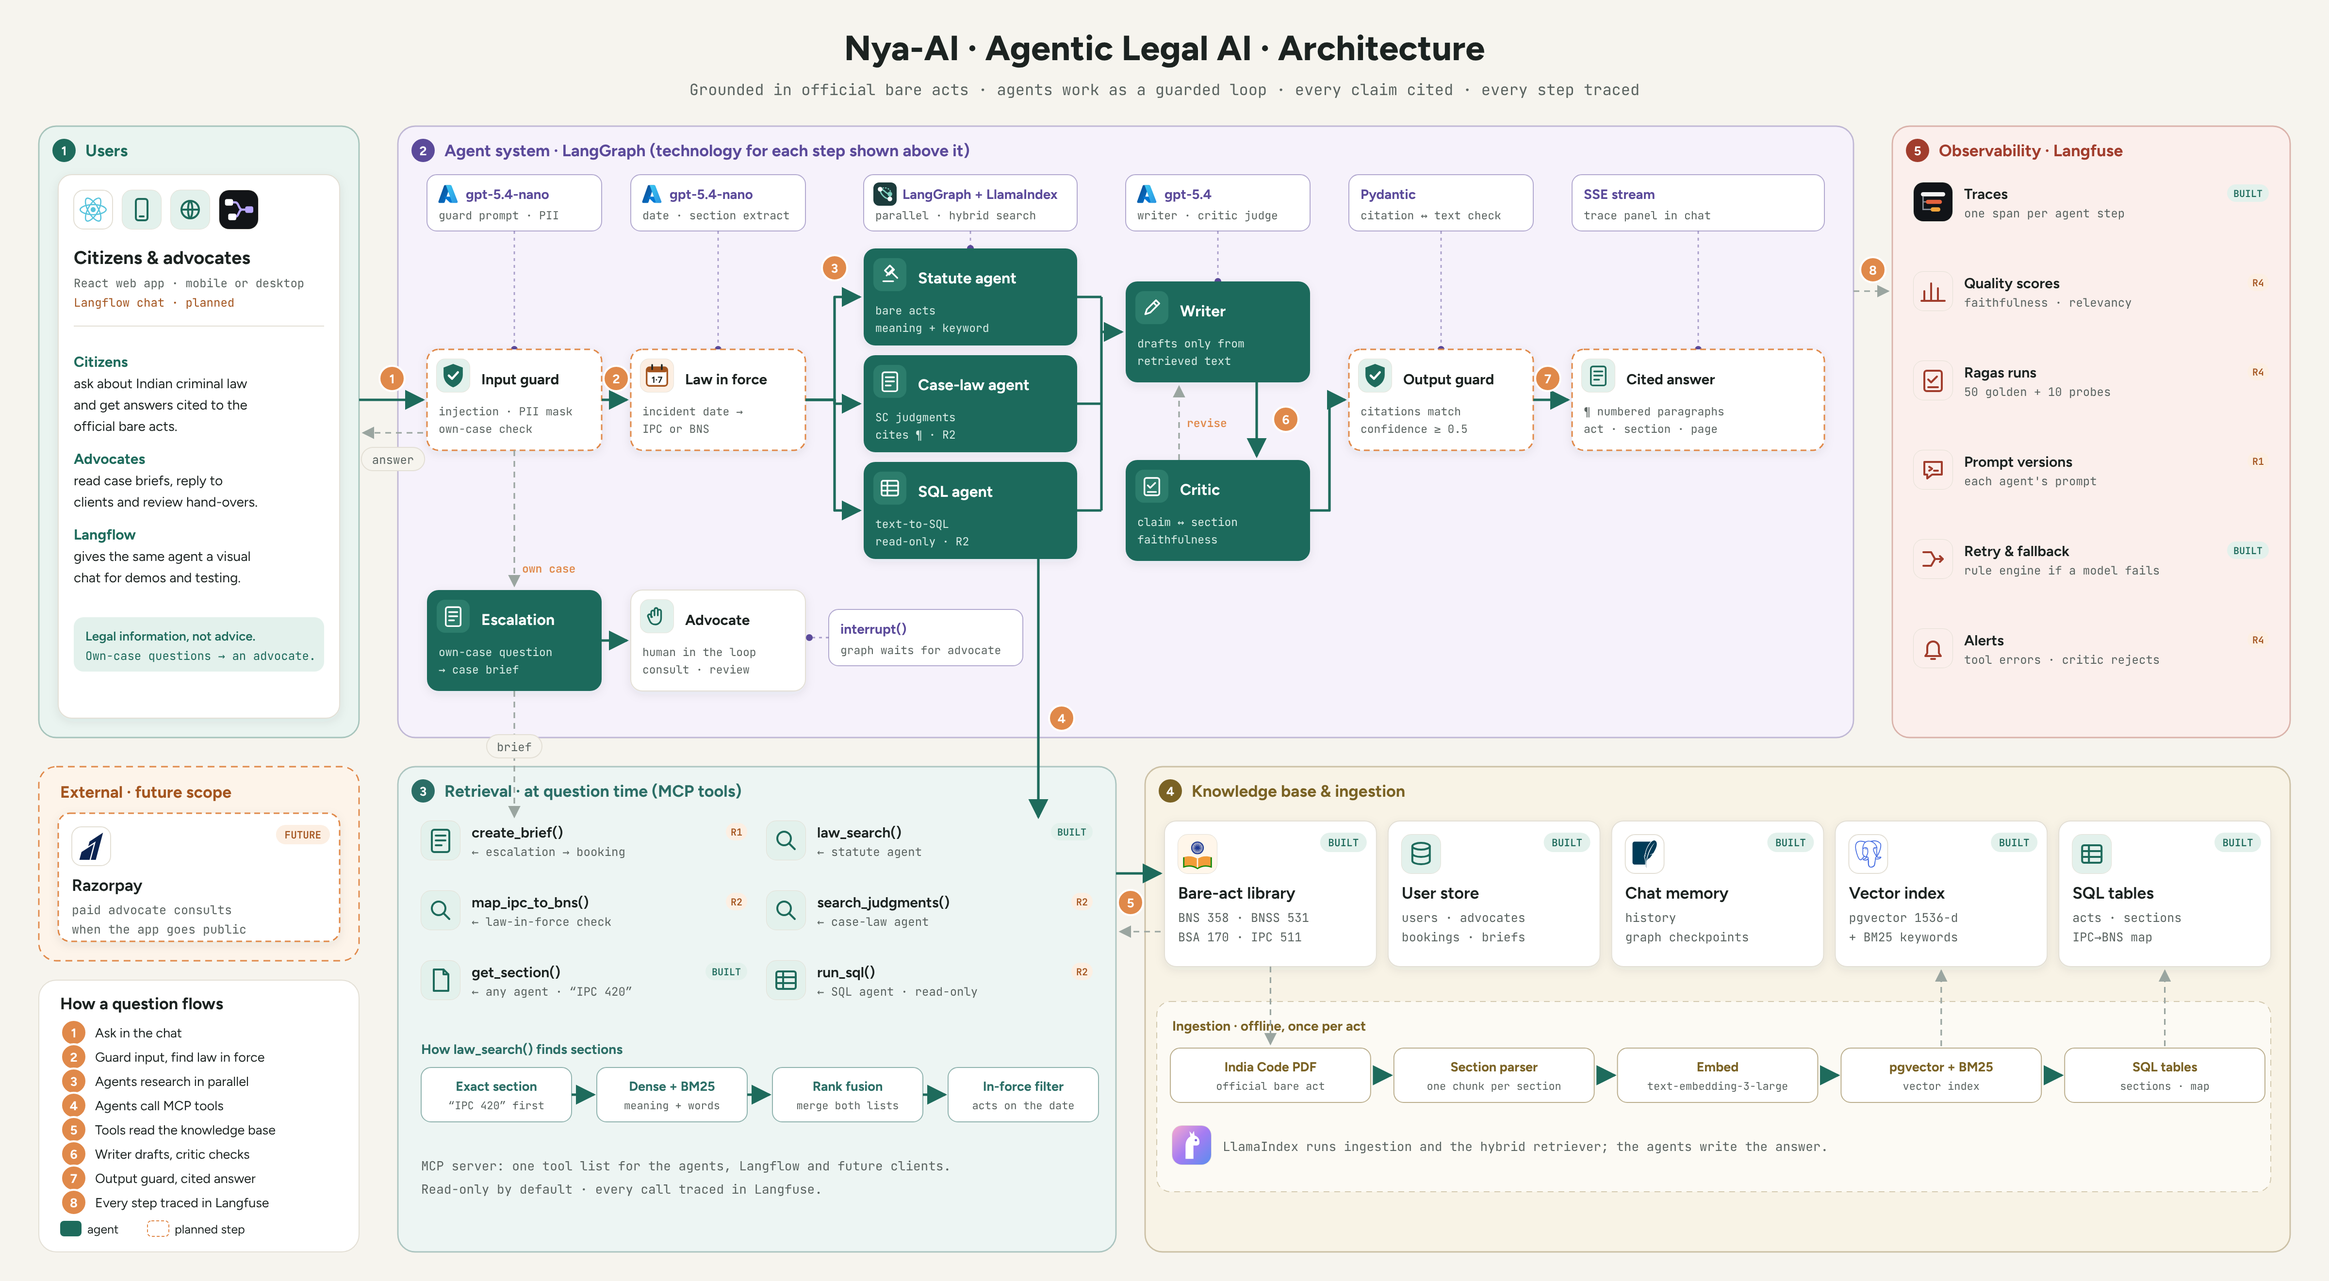
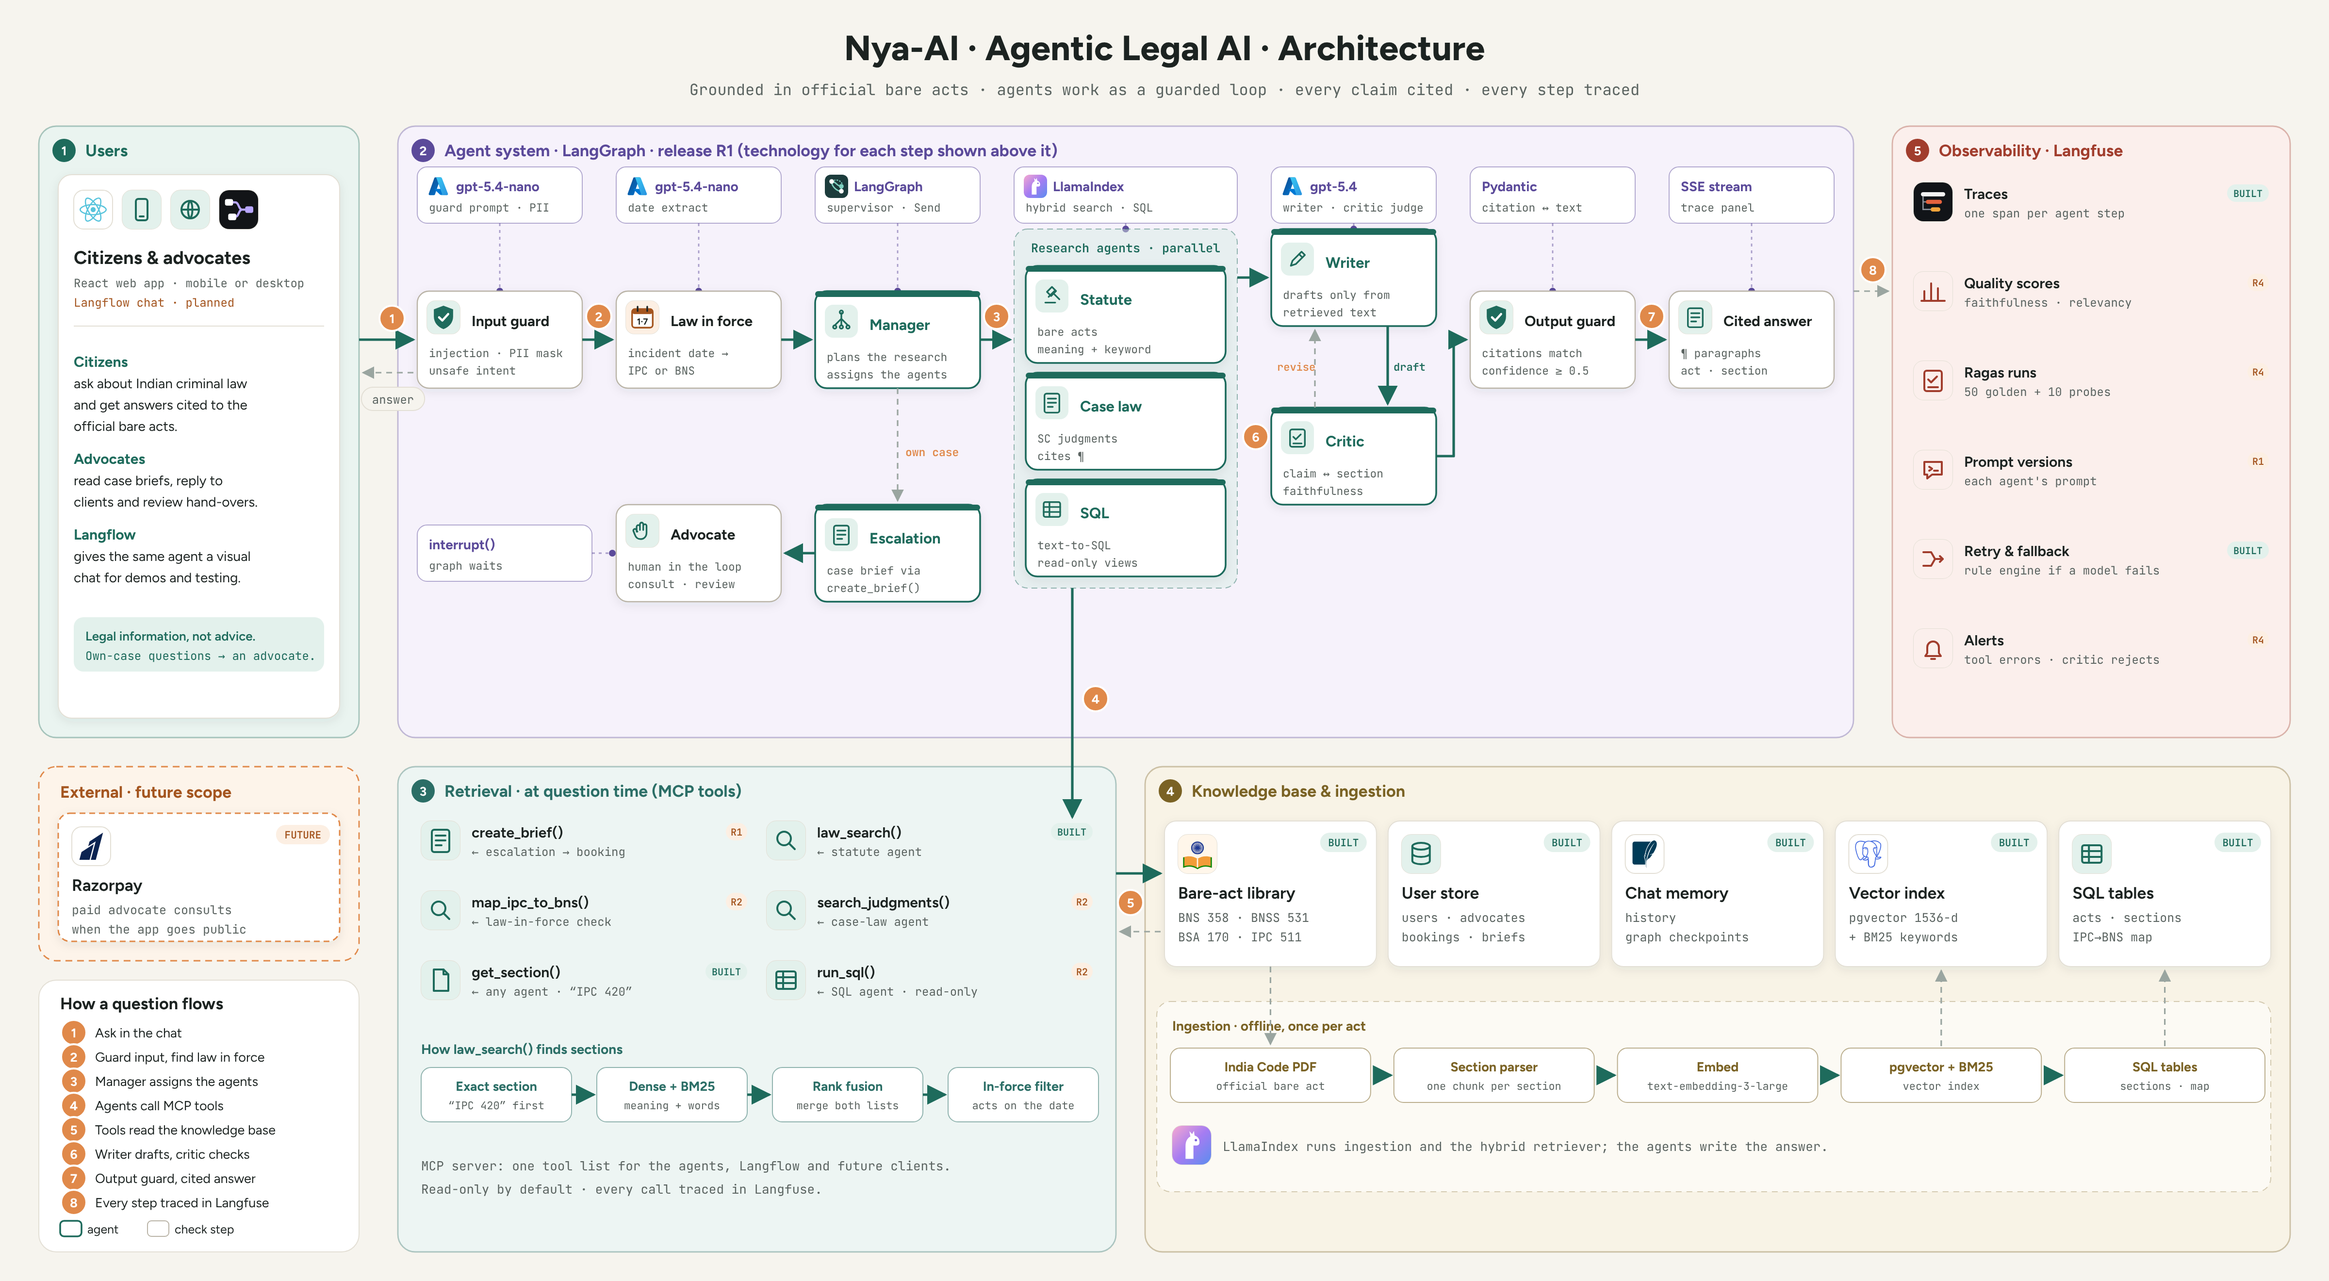
Architecture: add the manager agent, theme agent cards like the others, simplify connections
Claude-Session: https://claude.ai/code/session_01LU87o4F4G7N5N385mtQnru

diff --git a/docs/diagrams/draw_v6.py b/docs/diagrams/draw_v6.py
@@ -1,0 +1,227 @@
+"""Nya-AI architecture v4: users, agent system with tech callouts, MCP tools, knowledge base, observability."""
+from draw_detail import icon, tile, txt, box, layer, step, arrow, item, mark_langflow
+from draw import (AMBER, AMBER_T, BG, CLAY, EDGE, INK, LINE, MONO, MUTED, SAGE, SAGE_T, SANS, CARD,
+                  defs, mark_azure, mark_calendar, mark_indiacode, mark_langfuse,
+                  mark_langgraph, mark_llamaindex, mark_shield, simple)
+
+W, H = 2400, 1320
+JADE, JADE_L, JADE_T = "#1E6B5C", "#2C7D6C", "#D5EAE3"
+VIO = "#5B4A9A"
+
+
+def agent(x, y, w, h, ic, title, sub, tag=None):
+    o = [f'<g transform="translate({x},{y})"><rect width="{w}" height="{h}" rx="12" fill="#FFFFFF" stroke="{JADE}" stroke-width="1.8" filter="url(#sh)"/>',
+         f'<rect x="0" y="0" width="{w}" height="6" rx="3" fill="{JADE}"/>',
+         f'<g transform="translate(10,14) scale(.85)">{ic}</g>',
+         txt(56, 40, title, 15.5, 700, JADE), txt(12, 72, sub[0], 11.5, 400, MUTED, MONO)]
+    if len(sub) > 1:
+        o.append(txt(12, 90, sub[1], 11.5, 400, MUTED, MONO))
+    return "".join(o) + "</g>"
+
+
+def ctrl(x, y, w, h, ic, title, sub, dashed=False):
+    stroke = f'stroke="{CLAY}" stroke-dasharray="6 4" stroke-width="1.5"' if dashed else f'stroke="#B9B3A6" stroke-width="1.2"'
+    o = [f'<g transform="translate({x},{y})"><rect width="{w}" height="{h}" rx="12" fill="{CARD}" {stroke} filter="url(#sh)"/>',
+         f'<g transform="translate(10,10) scale(.85)">{ic}</g>', txt(56, 36, title, 15, 700), txt(12, 68, sub[0], 11.5, 400, MUTED, MONO)]
+    if len(sub) > 1:
+        o.append(txt(12, 86, sub[1], 11.5, 400, MUTED, MONO))
+    return "".join(o) + "</g>"
+
+
+def chip(x, y, w, name, stage, logo=None):
+    o = [f'<g transform="translate({x},{y})"><rect width="{w}" height="58" rx="10" fill="#FFFFFF" stroke="{VIO}" stroke-opacity=".45"/>']
+    tx = 12
+    if logo:
+        o.append(f'<g transform="translate(10,8)">{logo}</g>')
+        tx = 40
+    o.append(txt(tx, 25, name, 14, 700, VIO))
+    o.append(txt(12, 46, stage, 11.5, 400, MUTED, MONO))
+    return "".join(o) + "</g>"
+
+
+def pill(x, y, w, title, sub, col):
+    return (f'<g transform="translate({x},{y})"><rect width="{w}" height="56" rx="10" fill="#FFFFFF" stroke="{col}" stroke-opacity=".5"/>'
+            + txt(w / 2, 24, title, 13.5, 700, col, SANS, "middle") + txt(w / 2, 43, sub, 11, 400, MUTED, MONO, "middle") + "</g>")
+
+
+def link(x1, y1, x2, y2):
+    return f'<path d="M{x1},{y1} L{x2},{y2}" stroke="{VIO}" stroke-opacity=".5" stroke-width="1.4" stroke-dasharray="3 4" fill="none"/><circle cx="{x2}" cy="{y2}" r="3.5" fill="{VIO}"/>'
+
+
+def build():
+    b = [txt(W / 2, 62, "Nya-AI · Agentic Legal AI · Architecture", 36, 750, INK, SANS, "middle"),
+         txt(W / 2, 98, "Grounded in official bare acts · agents work as a guarded loop · every claim cited · every step traced", 16, 400, MUTED, MONO, "middle")]
+    LX, LW = 40, 330
+    CX, CW = 410, 1500
+    RX, RW = 1950, 410
+
+    b.append(layer(LX, 130, LW, 630, 1, "Users", "#EAF4F0", SAGE))
+    b.append(layer(CX, 130, CW, 630, 2, "Agent system · LangGraph · release R1   (technology for each step shown above it)", "#F6F2FB", VIO))
+    b.append(layer(RX, 130, RW, 630, 5, "Observability · Langfuse", "#FBEFEC", "#A13D2D"))
+    b.append(layer(CX, 790, 740, 500, 3, "Retrieval · at question time (MCP tools)", "#EDF5F3", "#2B6E66"))
+    b.append(layer(CX + 770, 790, RX + RW - CX - 770, 500, 4, "Knowledge base & ingestion", "#F8F3E6", "#7A6224"))
+
+    # ---- 1 users: one card ----
+    ux, uy, uw = LX + 20, 180, LW - 40
+    o = [f'<g transform="translate({ux},{uy})"><rect width="{uw}" height="560" rx="14" fill="{CARD}" stroke="{LINE}" filter="url(#sh)"/>']
+    for i, g in enumerate([tile(simple("react", 0, 0, 28)), tile(icon("phone"), 0), tile(icon("globe"), 0), tile(mark_langflow(0, 0, 40), 0)]):
+        o.append(f'<g transform="translate({16 + i * 50},16)">{g}</g>')
+    o.append(txt(16, 92, "Citizens & advocates", 19, 700))
+    o.append(txt(16, 116, "React web app · mobile or desktop", 12, 400, MUTED, MONO))
+    o.append(txt(16, 136, "Langflow chat · planned", 12, 400, AMBER, MONO))
+    o.append(f'<line x1="16" y1="156" x2="{uw - 16}" y2="156" stroke="{LINE}"/>')
+    lines = [("Citizens", "ask about Indian criminal law"), ("", "and get answers cited to the"), ("", "official bare acts."),
+             ("Advocates", "read case briefs, reply to"), ("", "clients and review hand-overs."),
+             ("Langflow", "gives the same agent a visual"), ("", "chat for demos and testing.")]
+    yy = 186
+    for head, rest in lines:
+        if head:
+            yy += 12
+            o.append(txt(16, yy, head, 15, 700, SAGE))
+            yy += 22
+        o.append(txt(16, yy, rest, 14, 400, INK))
+        yy += 22
+    o.append(f'<rect x="16" y="{yy + 14}" width="{uw - 32}" height="56" rx="10" fill="{SAGE_T}"/>')
+    o.append(txt(28, yy + 38, "Legal information, not advice.", 13, 600, SAGE))
+    o.append(txt(28, yy + 58, "Own-case questions → an advocate.", 12, 400, SAGE, MONO))
+    b.append("".join(o) + "</g>")
+
+    # ---- 2 agent system ----
+    X = {"g": 430, "d": 635, "m": 840, "res": 1045, "w": 1310, "o": 1515, "a": 1720}
+    Wd = {"g": 170, "d": 170, "m": 170, "res": 230, "w": 170, "o": 170, "a": 170}
+    MY, MH = 300, 100
+    my = MY + MH / 2
+    chips = [("g", "gpt-5.4-nano", "guard prompt · PII", "azc1"), ("d", "gpt-5.4-nano", "date extract", "azc2"),
+             ("m", "LangGraph", "supervisor · Send", "lg"), ("res", "LlamaIndex", "hybrid search · SQL", "li"),
+             ("w", "gpt-5.4", "writer · critic judge", "azc3"), ("o", "Pydantic", "citation ↔ text", None), ("a", "SSE stream", "trace panel", None)]
+    for k, name, stage, lg in chips:
+        logo = None
+        if lg == "lg":
+            logo = f'<g transform="scale(.6)">{mark_langgraph(0, 0, 40)}</g>'
+        elif lg == "li":
+            logo = f'<g transform="scale(.6)">{mark_llamaindex(0, 0, 40, "llc")}</g>'
+        elif lg:
+            logo = f'<g transform="scale(.6)">{mark_azure(0, 0, 40, lg)}</g>'
+        b.append(chip(X[k], 172, Wd[k], name, stage, logo))
+        top = 236 if k in ("res", "w") else MY
+        b.append(link(X[k] + Wd[k] / 2, 230, X[k] + Wd[k] / 2, top))
+
+    b.append(ctrl(X["g"], MY, 170, MH, tile(mark_shield(0, 0, 40), 0), "Input guard", ["injection · PII mask", "unsafe intent"]))
+    b.append(ctrl(X["d"], MY, 170, MH, tile(mark_calendar(0, 0, 40), 0), "Law in force", ["incident date →", "IPC or BNS"]))
+    b.append(agent(X["m"], MY, 170, MH, icon("split"), "Manager", ["plans the research", "assigns the agents"]))
+    # research group
+    gx0, gw0 = X["res"], Wd["res"]
+    b.append(f'<rect x="{gx0}" y="236" width="{gw0}" height="370" rx="14" fill="{JADE_T}" fill-opacity=".45" stroke="{JADE}" stroke-opacity=".45" stroke-dasharray="6 4"/>')
+    b.append(txt(gx0 + gw0 / 2, 260, "Research agents · parallel", 12.5, 700, JADE, MONO, "middle"))
+    res = [("Statute", ["bare acts", "meaning + keyword"], "gavel"), ("Case law", ["SC judgments", "cites ¶"], "brief"), ("SQL", ["text-to-SQL", "read-only views"], "table")]
+    for n_, (t_, s_, ic) in enumerate(res):
+        b.append(agent(gx0 + 12, 274 + n_ * 110, gw0 - 24, 100, icon(ic), t_, s_))
+    b.append(agent(X["w"], 236, 170, MH, icon("pen"), "Writer", ["drafts only from", "retrieved text"]))
+    b.append(agent(X["w"], 420, 170, MH, icon("check"), "Critic", ["claim ↔ section", "faithfulness"]))
+    b.append(ctrl(X["o"], MY, 170, MH, tile(mark_shield(0, 0, 40), 0), "Output guard", ["citations match", "confidence ≥ 0.5"]))
+    b.append(ctrl(X["a"], MY, 170, MH, tile(icon("brief"), 0), "Cited answer", ["¶ paragraphs", "act · section"]))
+    b.append(agent(X["m"], 520, 170, MH, icon("brief"), "Escalation", ["case brief via", "create_brief()"]))
+    b.append(ctrl(X["d"], 520, 170, MH, tile(icon("hand"), 0), "Advocate", ["human in the loop", "consult · review"]))
+    b.append(chip(X["g"], 541, 180, "interrupt()", "graph waits", None))
+    b.append(link(X["g"] + 180, 570, X["d"] - 4, 570))
+
+    # connections: one clear lane, one arrow per hand-off
+    b.append(arrow([(LX + LW, my), (X["g"] - 4, my)], main=True)); b.append(step(1, LX + LW + 34, my - 22))
+    b.append(arrow([(X["g"] - 4, my + 34), (LX + LW + 4, my + 34)], dashed=True, label="answer", lx=LX + LW + 35, ly=my + 62))
+    b.append(arrow([(X["g"] + 170, my), (X["d"] - 4, my)], main=True)); b.append(step(2, X["g"] + 187, my - 24))
+    b.append(arrow([(X["d"] + 170, my), (X["m"] - 4, my)], main=True))
+    b.append(arrow([(X["m"] + 170, my), (gx0 - 4, my)], main=True)); b.append(step(3, X["m"] + 187, my - 24))
+    b.append(arrow([(gx0 + gw0, 286), (X["w"] - 4, 286)], main=True))
+    b.append(arrow([(X["w"] + 120, 336), (X["w"] + 120, 416)], main=True))
+    b.append(txt(X["w"] + 126, 382, "draft", 11, 600, JADE, MONO))
+    b.append(arrow([(X["w"] + 45, 420), (X["w"] + 45, 340)], dashed=True))
+    b.append(txt(X["w"] + 6, 382, "revise", 11, 600, CLAY, MONO))
+    b.append(step(6, X["w"] - 16, 450))
+    b.append(arrow([(X["w"] + 170, 470), (X["w"] + 188, 470), (X["w"] + 188, my), (X["o"] - 4, my)], main=True))
+    b.append(arrow([(X["o"] + 170, my), (X["a"] - 4, my)], main=True)); b.append(step(7, X["o"] + 187, my - 24))
+    b.append(arrow([(X["m"] + 85, MY + MH), (X["m"] + 85, 516)], dashed=True))
+    b.append(txt(X["m"] + 93, 470, "own case", 11.5, 600, CLAY, MONO))
+    b.append(arrow([(X["m"], 570), (X["d"] + 174, 570)], main=True))
+    b.append(arrow([(CX + CW, 300), (RX - 4, 300)], dashed=True)); b.append(step(8, CX + CW + 20, 278))
+    sx, sw = gx0, gw0
+
+    # ---- 5 observability ----
+    obs = [(tile(mark_langfuse(0, 0, 40), 0), "Traces", "one span per agent step", "BUILT"),
+           (tile(icon("chart", "#FBEFEC", "#A13D2D"), 0), "Quality scores", "faithfulness · relevancy", "R4"),
+           (tile(icon("check", "#FBEFEC", "#A13D2D"), 0), "Ragas runs", "50 golden + 10 probes", "R4"),
+           (tile(icon("prompt", "#FBEFEC", "#A13D2D"), 0), "Prompt versions", "each agent's prompt", "R1"),
+           (tile(icon("fuse", "#FBEFEC", "#A13D2D"), 0), "Retry & fallback", "rule engine if a model fails", "BUILT"),
+           (tile(icon("bell", "#FBEFEC", "#A13D2D"), 0), "Alerts", "tool errors · critic rejects", "R4")]
+    for i, (g, t, s_, tag) in enumerate(obs):
+        b.append(item(RX + 22, 188 + i * 92, g, t, s_, RW - 44, tag, tag != "BUILT"))
+
+    # ---- 3 retrieval: MCP tools ----
+    tools = [("create_brief()", "← escalation → booking", "R1"), ("law_search()", "← statute agent", "BUILT"),
+             ("map_ipc_to_bns()", "← law-in-force check", "R2"), ("search_judgments()", "← case-law agent", "R2"),
+             ("get_section()", "← any agent · \u201cIPC 420\u201d", "BUILT"), ("run_sql()", "← SQL agent · read-only", "R2")]
+    tico = ["brief", "search", "search", "search", "file", "table"]
+    for i, (t_, s_, tag) in enumerate(tools):
+        c, r = i % 2, i // 2
+        b.append(item(CX + 24 + c * 356, 846 + r * 72, tile(icon(tico[i]), 0), t_, s_, 336, tag, tag != "BUILT"))
+    b.append(txt(CX + 24, 1086, "How law_search() finds sections", 14, 700, "#2B6E66"))
+    rchain = [("Exact section", "\u201cIPC 420\u201d first"), ("Dense + BM25", "meaning + words"), ("Rank fusion", "merge both lists"), ("In-force filter", "acts on the date")]
+    for i, (a_, s_) in enumerate(rchain):
+        x = CX + 24 + i * 181
+        b.append(pill(x, 1100, 155, a_, s_, "#2B6E66"))
+        if i:
+            b.append(arrow([(x - 26, 1128), (x - 3, 1128)], main=True))
+    b.append(txt(CX + 24, 1206, "MCP server: one tool list for the agents, Langflow and future clients.", 13, 400, MUTED, MONO))
+    b.append(txt(CX + 24, 1230, "Read-only by default · every call traced in Langfuse.", 13, 400, MUTED, MONO))
+
+    # ---- 4 knowledge base + ingestion ----
+    kx = CX + 790
+    kw = (RX + RW - CX - 770 - 40 - 4 * 12) / 5
+    kb = [("Bare-act library", ["BNS 358 · BNSS 531", "BSA 170 · IPC 511"], [tile(mark_indiacode(0, 0, 40), 0)], "BUILT"),
+          ("User store", ["users · advocates", "bookings · briefs"], [tile(icon("db"), 0)], "BUILT"),
+          ("Chat memory", ["history", "graph checkpoints"], [tile(simple("sqlite", 0, 0, 28))], "BUILT"),
+          ("Vector index", ["pgvector 1536-d", "+ BM25 keywords"], [tile(simple("postgresql", 0, 0, 28))], "BUILT"),
+          ("SQL tables", ["acts · sections", "IPC→BNS map"], [tile(icon("table"), 0)], "BUILT")]
+    for i, (t_, ln, ics, tag) in enumerate(kb):
+        b.append(box(kx + i * (kw + 12), 846, kw, 150, t_, ln, ics, tag))
+    b.append(f'<rect x="{kx - 8}" y="1032" width="{RX + RW - kx - 12}" height="196" rx="14" fill="#FFFFFF" fill-opacity=".55" stroke="#7A6224" stroke-opacity=".3" stroke-dasharray="6 5"/>')
+    b.append(txt(kx + 8, 1062, "Ingestion · offline, once per act", 14, 700, "#7A6224"))
+    ichain = [("India Code PDF", "official bare act"), ("Section parser", "one chunk per section"), ("Embed", "text-embedding-3-large"),
+              ("pgvector + BM25", "vector index"), ("SQL tables", "sections · map")]
+    step_w = kw + 12
+    for i, (a_, s_) in enumerate(ichain):
+        x = kx + i * step_w + 6
+        b.append(pill(x, 1080, kw - 12, a_, s_, "#7A6224"))
+        if i:
+            b.append(arrow([(x - 16, 1108), (x - 3, 1108)], main=True))
+    for i in (3, 4):
+        cxm = kx + i * step_w + kw / 2
+        b.append(arrow([(cxm, 1078), (cxm, 1000)], dashed=True))
+    cx0 = kx + kw / 2
+    b.append(arrow([(cx0, 996), (cx0, 1076)], dashed=True))
+    b.append(f'<g transform="translate({kx + 8},1160)">{tile(mark_llamaindex(0, 0, 40, "ll9"), 0)}</g>'
+             + txt(kx + 60, 1186, "LlamaIndex runs ingestion and the hybrid retriever; the agents write the answer.", 13, 400, MUTED, MONO))
+
+    # wiring
+    b.append(arrow([(sx + 60, 606), (sx + 60, 842)], main=True)); b.append(step(4, sx + 84, 720))
+    b.append(arrow([(CX + 740, 900), (kx - 4, 900)], main=True))
+    b.append(arrow([(kx - 4, 960), (CX + 744, 960)], dashed=True)); b.append(step(5, CX + 755, 930))
+
+    # ---- external (future) + legend ----
+    b.append(f'<rect x="{LX}" y="790" width="{LW}" height="200" rx="18" fill="#FDF4EA" stroke="{CLAY}" stroke-dasharray="7 5" stroke-width="1.4"/>')
+    b.append(txt(LX + 22, 822, "External · future scope", 17, 700, AMBER))
+    b.append(box(LX + 20, 838, LW - 40, 132, "Razorpay", ["paid advocate consults", "when the app goes public"],
+                 [tile(simple("razorpay", 0, 0, 28, "#0C2451"))], "FUTURE", planned=True))
+    b.append(f'<rect x="{LX}" y="1010" width="{LW}" height="280" rx="18" fill="#FFFFFF" stroke="{LINE}"/>')
+    b.append(txt(LX + 22, 1040, "How a question flows", 17, 700))
+    flow = ["Ask in the chat", "Guard input, find law in force", "Manager assigns the agents", "Agents call MCP tools",
+            "Tools read the knowledge base", "Writer drafts, critic checks", "Output guard, cited answer", "Every step traced in Langfuse"]
+    for i, s_ in enumerate(flow):
+        b.append(step(i + 1, LX + 36, 1064 + i * 25) + txt(LX + 58, 1069 + i * 25, s_, 13.5))
+    b.append(f'<rect x="{LX + 22}" y="1258" width="22" height="16" rx="4" fill="#FFFFFF" stroke="{JADE}" stroke-width="1.8"/>' + txt(LX + 50, 1271, "agent", 12.5))
+    b.append(f'<rect x="{LX + 112}" y="1258" width="22" height="16" rx="4" fill="#FFFFFF" stroke="#B9B3A6"/>' + txt(LX + 140, 1271, "check step", 12.5))
+    return (f'<svg xmlns="http://www.w3.org/2000/svg" viewBox="0 0 {W} {H}" width="{W}" height="{H}" role="img" '
+            f'aria-label="Nya-AI architecture"><rect width="{W}" height="{H}" fill="{BG}"/>{defs()}' + "\n".join(b) + "</svg>")
+
+
+open("architecture-detailed.svg", "w").write(build())
+print("ok")
